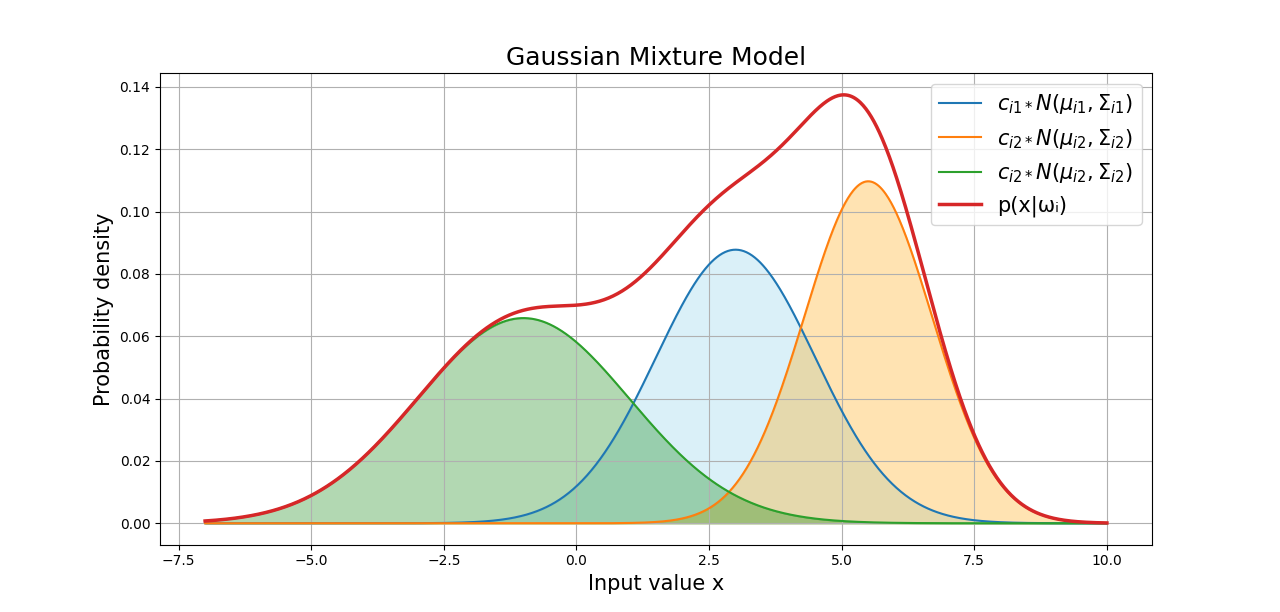
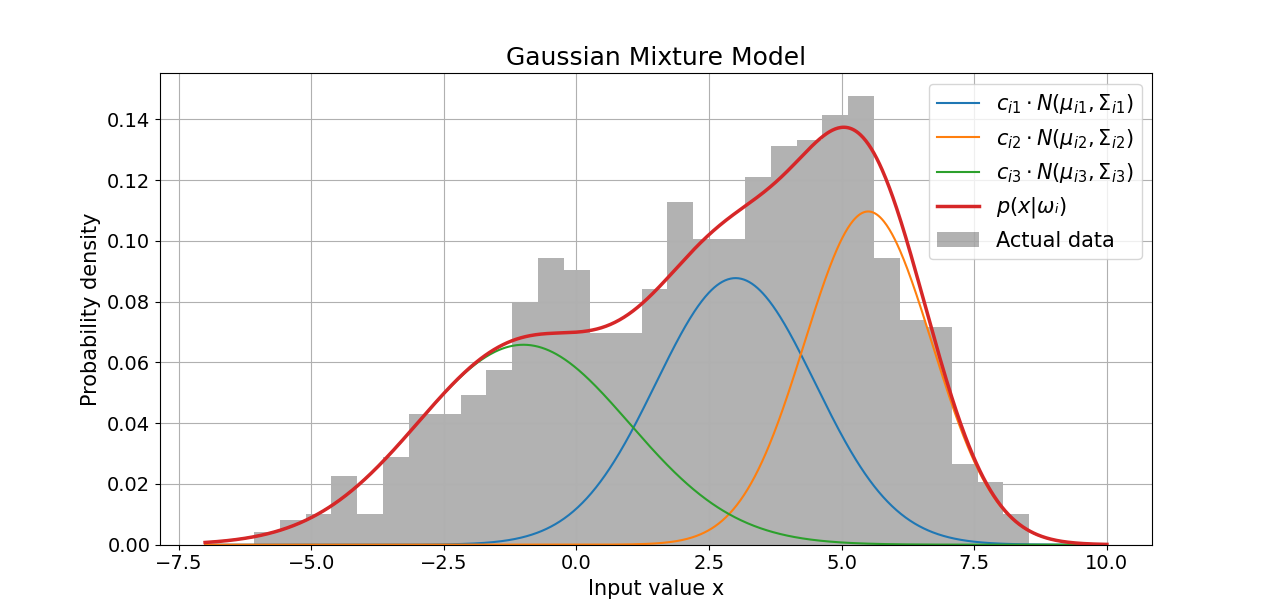
Oppdatert GMM_plot script

diff --git a/vowels_task.py b/vowels_task.py
@@ -56,7 +56,9 @@ oo_training, oo_test = oo_data[:70], oo_data[70:]
 uh_training, uh_test = uh_data[:70], uh_data[70:]
 uw_training, uw_test = uw_data[:70], uw_data[70:]
 
+
 test_data = np.concatenate((ae_test, ah_test, aw_test, eh_test, er_test, ei_test, ih_test, iy_test, oa_test, oo_test, uh_test, uw_test), axis=0)
+training_data = np.concatenate((ae_training, ah_training, aw_training, eh_training, er_training, ei_training, ih_training, iy_training, oa_training, oo_training, uh_training, uw_training), axis=0)
 """---------------------------------------------------------------"""
 
 """------------------------ CONSTANTS ----------------------------"""
@@ -65,24 +67,6 @@ num_gaussians = 3 #How many gaussians we should fit in the GMM
 cov_type = "diag" #Covariance matrix used in the GMM
 seed = 42 #The GaussianMixture is random each time. By setting a seed we ensure reproducability  
 """---------------------------------------------------------------"""
-
-def plot_fig():
-    true_classes = np.array([1]*50 + [2]*50 + [3]*50 + [4]*50)
-
-# Predicted classes
-    predicted_classes = np.array([1]*49 + [3] + [2]*48 + [4]*2 + [1]*1 + [2]*4 + [3]*44 + [4]*1 + [1]*2 + [2]*2 + [4]*46)
-    cm = confusion_matrix(true_classes, predicted_classes)
-
-    plt.figure(figsize=(10, 8))
-    sns.heatmap(cm, annot=True, cmap="Blues", fmt="d", cbar=False, linewidths=0.5, linecolor='grey', vmax=50, annot_kws={"fontsize": 24})
-    phonetic_labels = ['Class 1', 'Class 2', 'Class 3', 'Class 4']
-    plt.xticks(np.arange(4) + 0.5, phonetic_labels, fontsize=18)
-    plt.yticks(np.arange(4) + 0.5, phonetic_labels, fontsize=18)
-    plt.title("Confusion Matrix", fontsize=20)
-    plt.xlabel("Predicted class", fontsize=18)
-    plt.ylabel("True class", fontsize=18)
-    plt.show()
-plot_fig()
 
 """------------------- TRAINING FUNCTIONS ------------------------"""
 #Calculating the mean-vector for training_data. The components are the mean values of the formants
@@ -102,14 +86,14 @@ def cov_matrix(training_data):
      #Task 1c, only using the diagonal terms and removing the covariance terms
      diag_matrix = np.diag(np.diag(cov_matrix))
 
-     return diag_matrix
+     return cov_matrix
 
 def GMM(num_gaussians, cov_type, seed, data):
      return GaussianMixture(n_components=num_gaussians, covariance_type = cov_type, random_state=seed).fit(data)
 """---------------------------------------------------------------"""
 
 
-#Dictionary which holds the estimated mean value and covariance matrix for each vowel
+#Dictionary which holds the estimated mean value,covariance matrix and GMM for each vowel
 trained_parameters = {
     'ae': {'class': 1,  'mean': mean(ae_training), 'covariance': cov_matrix(ae_training), 'GMM': GMM(num_gaussians, cov_type, seed, ae_training)},
     'ah': {'class': 2,  'mean': mean(ah_training), 'covariance': cov_matrix(ah_training), 'GMM': GMM(num_gaussians, cov_type, seed, ah_training)},
@@ -136,6 +120,15 @@ def print_weights():
                     print(f"Component {i+1}:  Weight: {weights[i]} Mean: {means[i]}")
 #print_weights()
 
+def print_parameters():
+     for vowel, parameters in trained_parameters.items():
+          mean = parameters['mean']
+          cov = parameters['covariance']
+
+          print(f"Vowel: {vowel}")
+          print(f'mean vector: {mean}')
+          print(f'Covariance matrix: \n {cov}')
+#print_parameters()
 
 """------------------------ TESTING ----------------------------"""
 def test(test_data):
@@ -157,11 +150,11 @@ def test(test_data):
             ###      Single Gaussian model    ###
             mean = parameters['mean']
             cov = parameters['covariance']
-            #prob = multivariate_normal(mean=mean, cov=cov).pdf(test_data[i])
+            prob = multivariate_normal(mean=mean, cov=cov).pdf(test_data[i])
 
             ###          GMM        ###
-            gmm = parameters['GMM']
-            prob = np.exp(gmm.score_samples([test_data[i]])[0])
+            #gmm = parameters['GMM']
+            #prob = np.exp(gmm.score_samples([test_data[i]])[0])
 
             #Descision rule. The gauss which gives the largest probability is the class which is chosen
             if prob*P_w > max_prob:
@@ -179,13 +172,15 @@ def test(test_data):
 
 
 def conf_matrix(pred):
-     true = [i for i in range(1, 13) for _ in range(69)]
+     true = [i for i in range(1, 13) for _ in range(70)]
 
      cm = confusion_matrix(true, pred)
      error = 1 - accuracy_score(true, pred)
 
      return cm, error
 
+
+#Plotting confusion matrix
 def plot_conf_matrix(cm):
      
      ###Plotting the confusion matrix
@@ -196,12 +191,13 @@ def plot_conf_matrix(cm):
      phonetic_labels = ['ae', 'ah', 'aw', 'eh', 'er', 'ei', 'ih', 'iy', 'oa', 'oo', 'uh', 'uw']
      plt.xticks(np.arange(12) + 0.5, phonetic_labels, fontsize=14)
      plt.yticks(np.arange(12) + 0.5, phonetic_labels, fontsize=14)
-     plt.title("Confusion Matrix for a GMM with 3 Gaussians \n and diagonal covariance matrix", fontsize=20)
+     plt.title("Confusion Matrix using the training data", fontsize=20)
      plt.xlabel("Predicted label", fontsize=16)
      plt.ylabel("True label", fontsize=16)
      plt.show()
 
 
+#3D plot of all training samples
 def plot():
     fig = plt.figure()
     ax = fig.add_subplot(projection='3d')
@@ -225,9 +221,10 @@ def plot():
 
     plt.legend()
     plt.show()
-
 #plot()
 
+
+#Plotting histogram
 def histogram():
     fig, axs = plt.subplots(3, 1)
     features = ['f1', 'f2', 'f3']
@@ -253,32 +250,8 @@ def histogram():
         ax.set_ylabel(f'Count', fontsize=12)
         #ax.legend(loc='upper right')
     plt.show()
-
 #histogram()
 
-def plot_gaussian():
-    fig, axs = plt.subplots(3, 1, figsize=(10, 15))
-    features = ['f1', 'f2', 'f3']
-    bin_width = 60
-    for i in range(3):
-        ax = axs[i]
-        
-        # Plot Gaussian distributions
-        for phoneme in ['er', 'ih']:
-            params = trained_parameters[phoneme]
-            gmm = params['GMM']
-            mean = params['mean'][i]
-            covariance = params['covariance'][i, i]  # Assuming diagonal covariance matrix
-            gaussian = multivariate_normal(mean=mean, cov=covariance)
-            x = np.linspace(0, 4000, 1000)
-            y = gaussian.pdf(x)
-            ax.plot(x, y, label=f'{phoneme} Gaussian', linestyle='--')
-
-        ax.set_xlabel(f'Frequency [Hz]', fontsize=16)
-        ax.legend(loc='upper right')
-    plt.show()
-
-#plot_gaussian()
 
 ###Testing###
 # print(test(test_data)[0], '\n')
@@ -298,3 +271,59 @@ def plot_gaussian():
 #print("Mean value vector: ", mean(ae_training))
 #print("Covariance matrix: ", cov_matrix(ae_training))
 #print(multivariate_gaussian(mean(ae_training), cov_matrix(ae_training)))
+
+
+def plot_gaussian_mixture(gmms, datas, labels):
+    num_features = datas[0].shape[1]
+    x = np.linspace(np.min([data.min() for data in datas]), np.max([data.max() for data in datas]), 1000)
+    colors = ['r', 'g', 'b']  # Colors for each component
+
+    plt.figure(figsize=(12, 4*num_features))
+
+    bin_width = 40
+    
+    for i in range(num_features):
+        plt.subplot(num_features, 1, i+1)
+        for idx, (gmm, data, label) in enumerate(zip(gmms, datas, labels)):
+            bins = np.arange(0, 3700 + bin_width, bin_width)
+            plt.hist(data[:, i], bins=bins, density=True, alpha=0.5, color=colors[idx], label=label)  # Plot the histogram of the feature
+            
+            total_gauss = np.zeros_like(x)
+            for j in range(gmm.n_components):
+                mean = gmm.means_[j, i]
+                std_dev = np.sqrt(gmm.covariances_[j, i])
+
+                y = (1 / (np.sqrt(2 * np.pi) * std_dev)) * np.exp(-0.5 * ((x - mean) / std_dev) ** 2)
+                total_gauss += y
+            plt.plot(x, total_gauss, color=colors[idx], label=f'Formant {i+1} - {label}')
+        
+        plt.xlabel(f'Feature {i+1} Value')
+        plt.ylabel('Density')
+        plt.legend(loc='upper right')
+
+    plt.tight_layout()
+    plt.show()
+
+#gmms = [trained_parameters['ae']['GMM'], trained_parameters['ih']['GMM']]
+#datas = [ae_training, ih_training]
+#labels = ['ae', 'ih']
+#plot_gaussian_mixture(gmms, datas, labels)
+
+
+def plot_fig():
+    true_classes = np.array([1]*50 + [2]*50 + [3]*50 + [4]*50)
+
+# Predicted classes
+    predicted_classes = np.array([1]*49 + [3] + [2]*48 + [4]*2 + [1]*1 + [2]*4 + [3]*44 + [4]*1 + [1]*2 + [2]*2 + [4]*46)
+    cm = confusion_matrix(true_classes, predicted_classes)
+
+    plt.figure(figsize=(10, 8))
+    sns.heatmap(cm, annot=True, cmap="Blues", fmt="d", cbar=False, linewidths=0.5, linecolor='grey', vmax=50, annot_kws={"fontsize": 24})
+    phonetic_labels = ['Class 1', 'Class 2', 'Class 3', 'Class 4']
+    plt.xticks(np.arange(4) + 0.5, phonetic_labels, fontsize=18)
+    plt.yticks(np.arange(4) + 0.5, phonetic_labels, fontsize=18)
+    plt.title("Confusion Matrix", fontsize=20)
+    plt.xlabel("Predicted class", fontsize=18)
+    plt.ylabel("True class", fontsize=18)
+    plt.show()
+#plot_fig()

diff --git a/Rapport mappe/GMM_plot.py b/Rapport mappe/GMM_plot.py
@@ -1,5 +1,6 @@
 import numpy as np
 import matplotlib.pyplot as plt
+from scipy.integrate import simps
 
 mu_1, var_1, w_1 = 3, 1.5, 0.33
 mu_2, var_2, w_2= 5.5, 1.2, 0.33
@@ -16,19 +17,30 @@ g_2 = w_2*gaussian(x, mu_2, var_2)
 g_3 = w_3*gaussian(x, mu_3, var_3)
 gmm = g_1 + g_2 + g_3
 
+# Sample data points from the GMM distribution
+num_samples = 1000
+gmm_samples = np.random.choice(x, size=num_samples, p=gmm/gmm.sum())
 
-# Plot the Gaussian function
-plt.plot(x, g_1, label="$c_{i1*}N(\\mu_{i1}, \\Sigma_{i1})$")
-plt.fill_between(x, g_1, color='skyblue', alpha=0.3)
-plt.plot(x, g_2, label="$c_{i2*}N(\\mu_{i2}, \\Sigma_{i2})$")
-plt.fill_between(x, g_2, color='orange', alpha=0.3)
-plt.plot(x, g_3, label="$c_{i2*}N(\\mu_{i2}, \\Sigma_{i2})$")
-plt.fill_between(x, g_3, color='green', alpha=0.3)
-plt.plot(x, gmm, label="p(x|ωᵢ)", linewidth=2.5)
+# Integrate the GMM
+area_under_curve = simps(gmm, x)
+
+# Plot everything together
+plt.plot(x, g_1, label="$c_{i1} \cdot N(\\mu_{i1}, \\Sigma_{i1})$")
+#plt.fill_between(x, g_1, color='skyblue', alpha=0.3)
+plt.plot(x, g_2, label="$c_{i2} \cdot N(\\mu_{i2}, \\Sigma_{i2})$")
+#plt.fill_between(x, g_2, color='orange', alpha=0.3)
+plt.plot(x, g_3, label="$c_{i3} \cdot N(\\mu_{i3}, \\Sigma_{i3})$")
+#plt.fill_between(x, g_3, color='green', alpha=0.3)
+plt.plot(x, gmm, label="$p(x|ωᵢ)$", linewidth=2.5)
+
+plt.hist(gmm_samples, bins=30, density=True, alpha=0.3, color='black', label='Actual data')
 
 plt.title('Gaussian Mixture Model', fontsize=18)
 plt.xlabel('Input value x', fontsize=15)
 plt.ylabel('Probability density', fontsize=15)
 plt.grid()
-plt.legend(fontsize = 15)
+plt.xticks(fontsize=14)
+plt.yticks(fontsize=14)
+plt.legend(loc='upper right', fontsize=15)
 plt.show()
+
